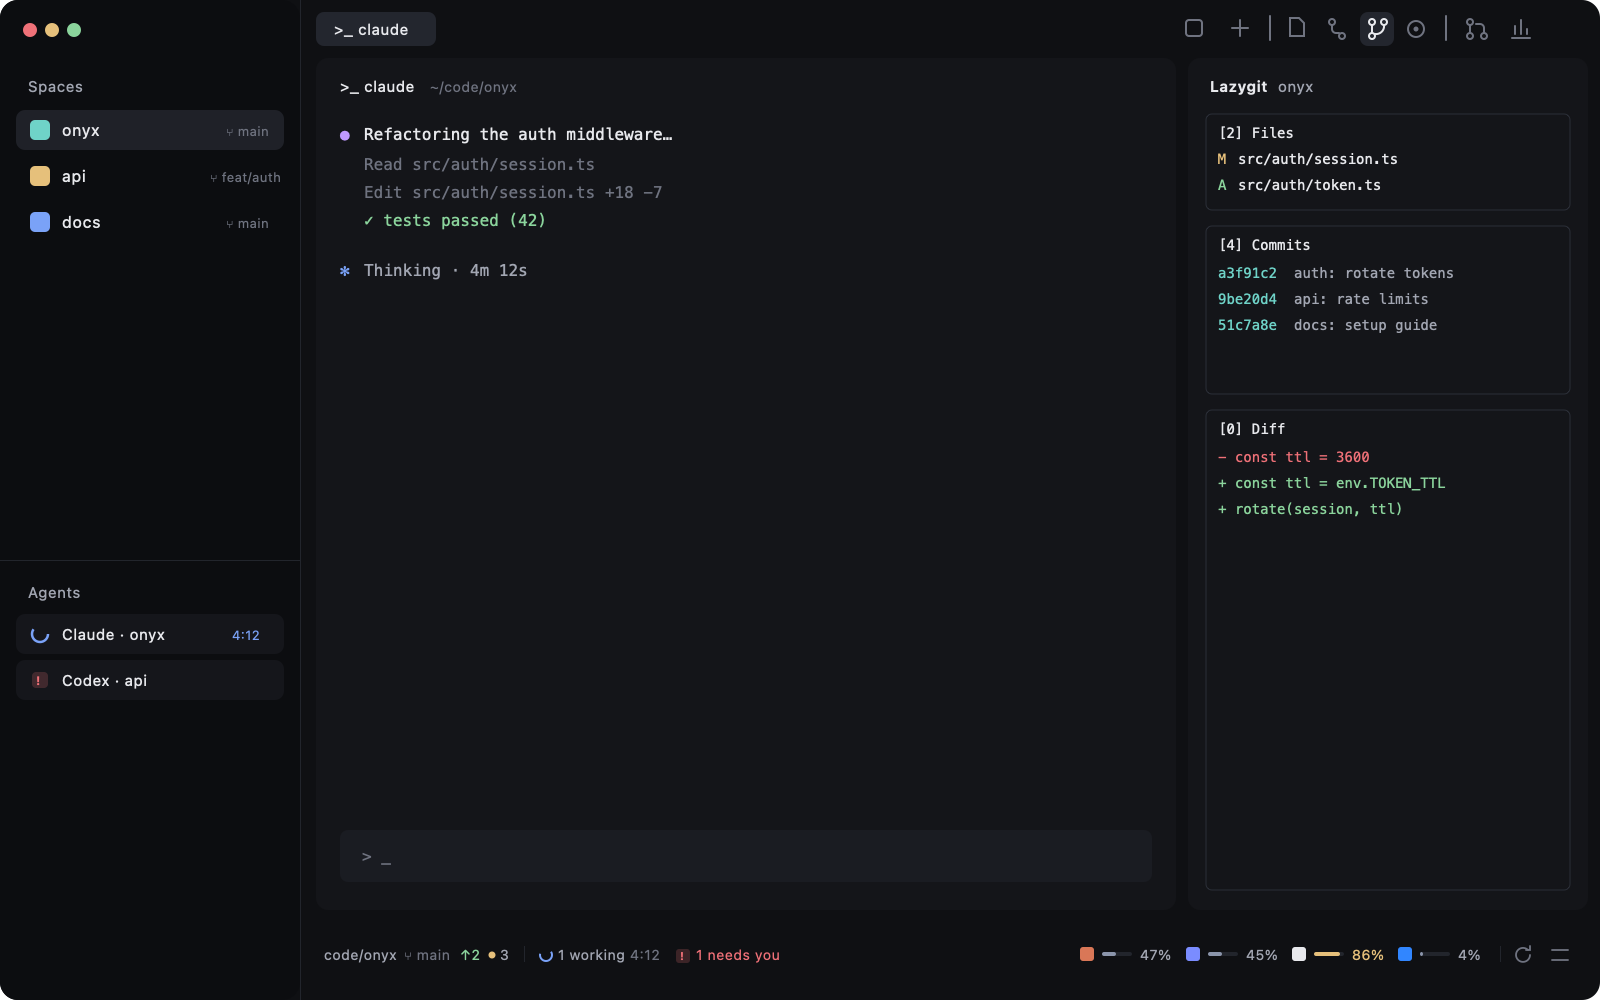
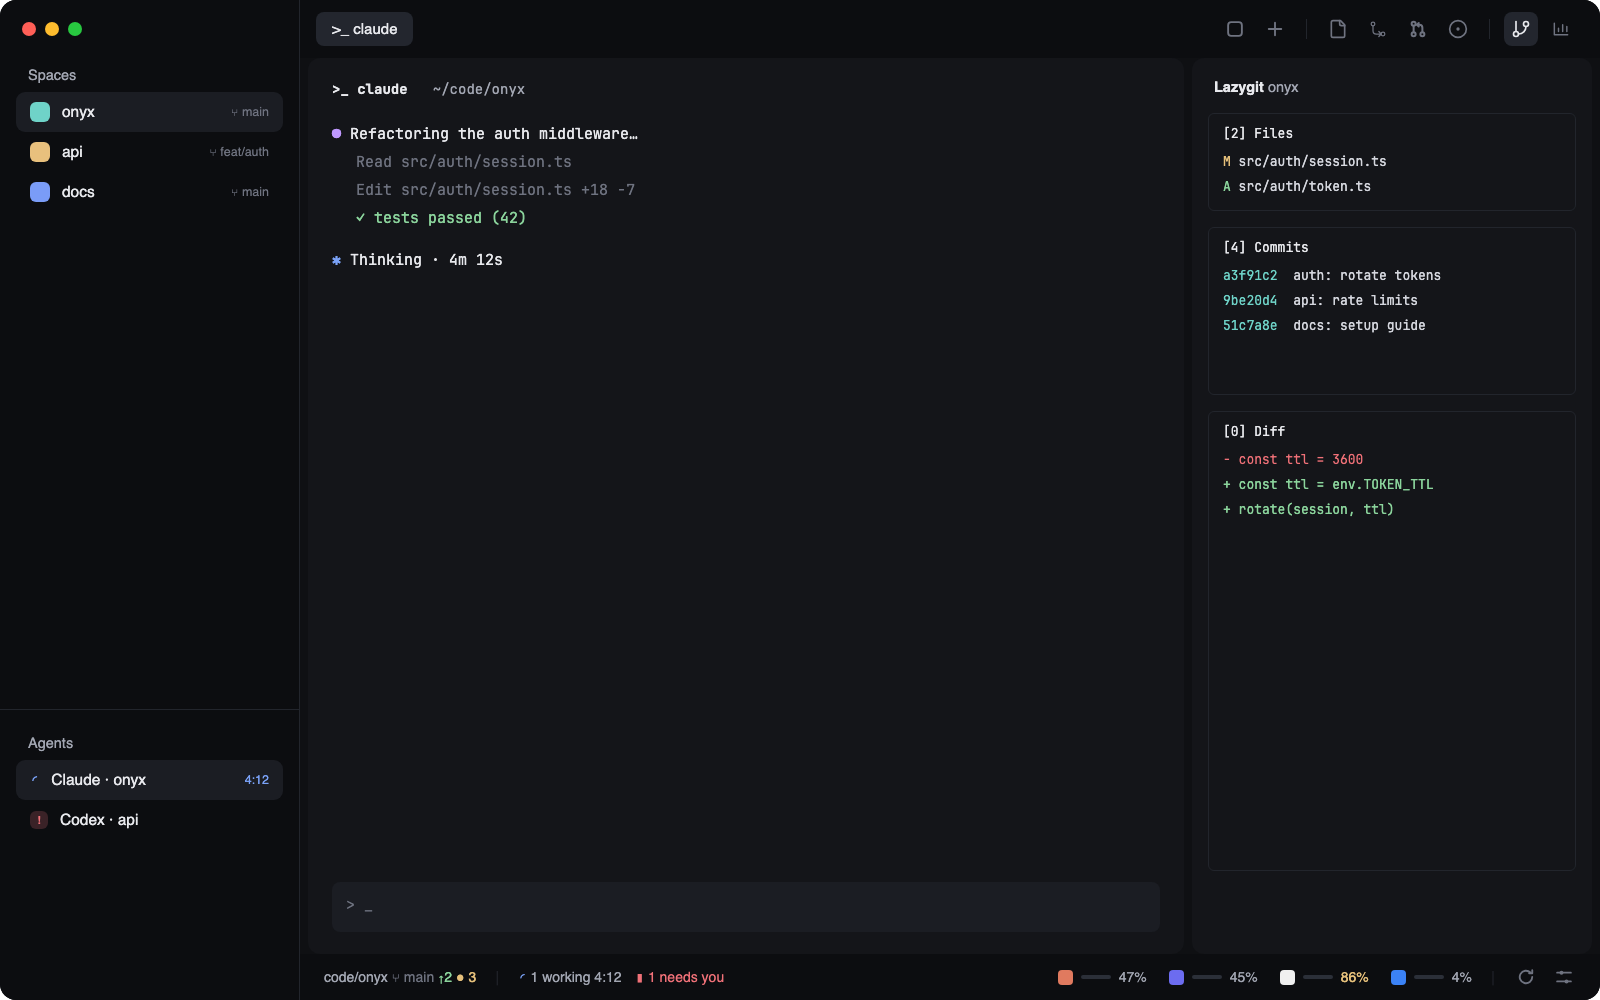
Refresh the previews for the new toolbar and add the PR page
preview.png (and the layout's copy) show Pull requests and Lazygit in
their new places; preview-prs.png shows the Pull requests page.

diff --git a/README.md b/README.md
@@ -15,6 +15,8 @@ A git-first layout for the [Herdr](https://herdr.dev) desktop app: your coding a
 - **Tabs with timers.** A tab whose agent is working shows how long it has been at it.
 - **Onyx theme.** A deep blue-black dark theme (light mode falls back to Herdr's Paper).
 
+![The Pull requests page](preview-prs.png)
+
 ## Install
 
 ```sh
